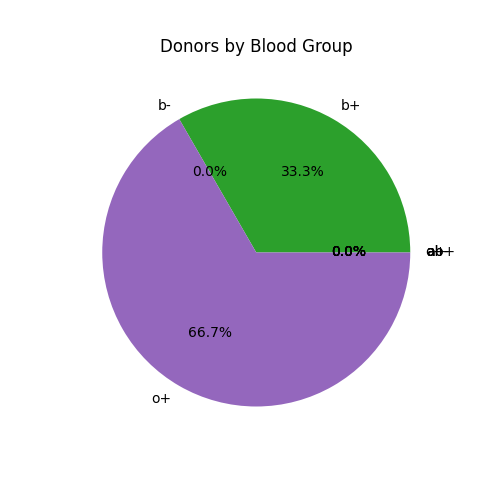
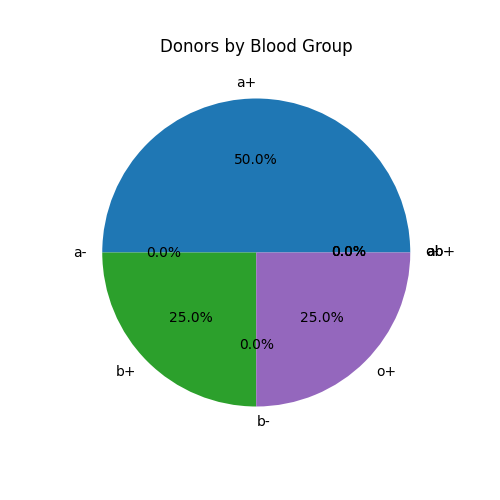
update all

diff --git a/templates/dashboard.html b/templates/dashboard.html
@@ -15,7 +15,7 @@
             width: 100%;
         }
         .tot{
-            width: 40%;
+            width: 35%;
             float: left;
             padding: 15px;
             margin: 5px;
@@ -23,26 +23,25 @@
         .grpdata{
             width: 50%;
             float: right;
-            padding: 15px;
+            padding: 10px;
             margin: 5px;
         }
         .links{
-            clear: both;
-            margin-top: 20px;
+            margin-top: 5px;
         }
         .button1{
             width: 200px;
             background-color: lightblue;
             display: block;
-            float: left;
-            margin-left: 25%;
+            margin-left: 150px;
+            align-items: center;
         }
         .button2{
             width: 200px;
             background-color: lightblue;
             display: block;
-            float: right;
-            margin-right: 25%;
+            margin-left: 150px;
+            align-items: center;
         }
         a{
             width : 50%;
@@ -70,6 +69,9 @@
         <div class="tot">
             <h2>Total Donors</h2>
             <h1>{{total_donor}}</h1>
+                <div style="text-align: center;">
+                    <img src="/static/piechart.png" alt="Blood Group Pie Chart" style="width: 350px; border-radius: 10px;">
+                </div>
         </div>
 
         <div class="grpdata">
@@ -84,12 +86,14 @@
                 <li>AB+ -> {{grp_cnt['ab+']}}</li>
                 <li>AB- -> {{grp_cnt['ab-']}}</li>
             </ul>
-        </div>
-
+        
         <div class="links">
             <a href="/" class="button1">ADD NEW DONOR</a>
             <a href="/donors" class="button2">VIEW DONORS</a>
         </div>
+        </div>
+
+        
     </div>
 </body>
 </html>
